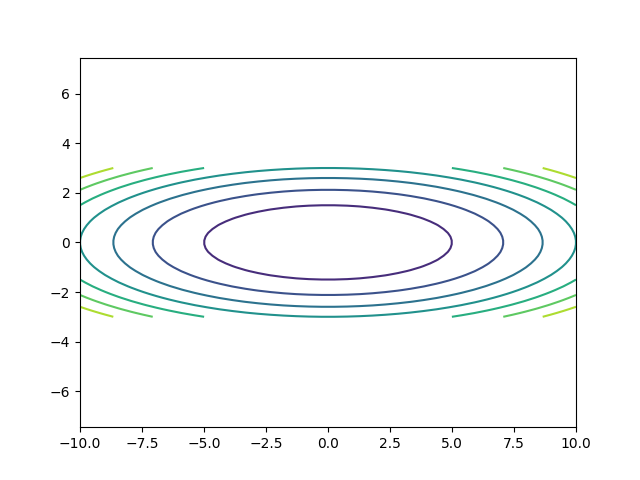
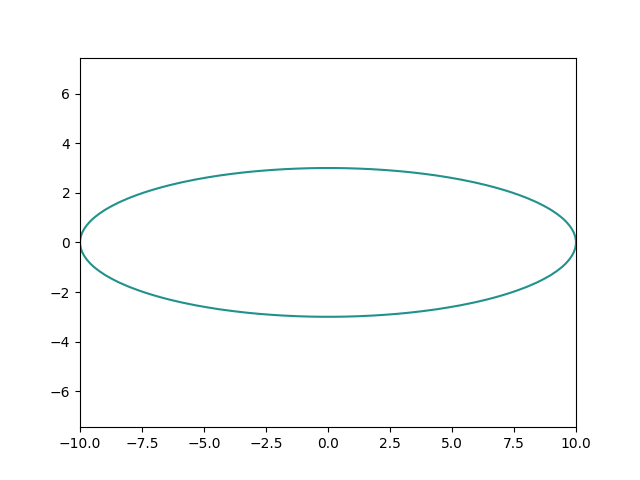
less6

diff --git a/lab_6_osn_task4.py b/lab_6_osn_task4.py
@@ -1,0 +1,21 @@
+import matplotlib.pyplot as plt 
+import numpy as np
+
+def arh_spiral(k, N):
+    f = np.linspace(0, 8 * np.pi, N)
+    x = []
+    y = []
+    f_xy = []
+    for i in range(0, N):
+        x.append(k * f[i] * np.cos(f[i]))
+        y.append(k * f[i] * np.sin(f[i]))
+        X, Y = np.meshgrid(x, y)
+
+        f_xy.append(X ** 2 + Y ** 2 - (k * f[i]) ** 2)
+
+    plt.contour(X, Y, f_xy)
+    plt.axis('equal')
+    plt.savefig('arh_spiral.png')
+
+arh_spiral(k=1, N=500)
+

diff --git a/lab_6_osn_task3.py b/lab_6_osn_task3.py
@@ -9,7 +9,7 @@ def ellips(N, a, b):
 
     f_xy = X ** 2 / a ** 2 + Y ** 2 / b ** 2 - 1
 
-    plt.contour(X, Y, f_xy)
+    plt.contour(X, Y, f_xy, levels=0)
     plt.axis('equal')
     plt.savefig('lab_6_osn_task3.png')
 
